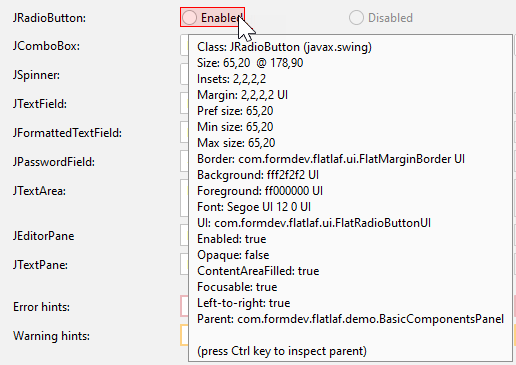
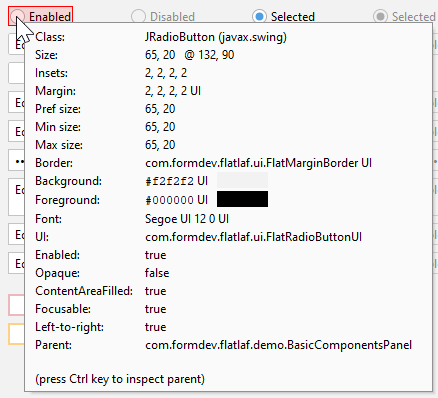
Extras: FlatInspector: tooltip is no longer limited to window bounds

Changed region(s): [[0.0297, 0.0, 1.0, 0.9945], [0.0, 0.0, 0.2968, 0.874]]

diff --git a/flatlaf-extras/src/main/java/com/formdev/flatlaf/extras/FlatInspector.java b/flatlaf-extras/src/main/java/com/formdev/flatlaf/extras/FlatInspector.java
@@ -38,6 +38,9 @@ import java.awt.event.KeyEvent;
 import java.awt.event.MouseEvent;
 import java.awt.event.MouseMotionAdapter;
 import java.awt.event.MouseMotionListener;
+import java.awt.event.WindowAdapter;
+import java.awt.event.WindowEvent;
+import java.awt.event.WindowListener;
 import java.beans.PropertyChangeListener;
 import java.beans.PropertyChangeSupport;
 import java.lang.reflect.Field;
@@ -48,6 +51,8 @@ import javax.swing.JRootPane;
 import javax.swing.JToolBar;
 import javax.swing.JToolTip;
 import javax.swing.KeyStroke;
+import javax.swing.Popup;
+import javax.swing.PopupFactory;
 import javax.swing.RootPaneContainer;
 import javax.swing.SwingUtilities;
 import javax.swing.border.Border;
@@ -55,6 +60,7 @@ import javax.swing.border.EmptyBorder;
 import javax.swing.border.LineBorder;
 import javax.swing.plaf.UIResource;
 import javax.swing.text.JTextComponent;
+import com.formdev.flatlaf.FlatClientProperties;
 import com.formdev.flatlaf.ui.FlatUIUtils;
 import com.formdev.flatlaf.util.UIScale;
 
@@ -82,7 +88,6 @@ import com.formdev.flatlaf.util.UIScale;
 public class FlatInspector
 {
 	private static final Integer HIGHLIGHT_LAYER = 401;
-	private static final Integer TOOLTIP_LAYER = 402;
 
 	private static final int KEY_MODIFIERS_MASK = InputEvent.CTRL_DOWN_MASK | InputEvent.SHIFT_DOWN_MASK | InputEvent.ALT_DOWN_MASK | InputEvent.META_DOWN_MASK;
 
@@ -90,6 +95,8 @@ public class FlatInspector
 	private final MouseMotionListener mouseMotionListener;
 	private final AWTEventListener keyListener;
 	private final PropertyChangeSupport propertyChangeSupport = new PropertyChangeSupport( this );
+	private final WindowListener windowListener;
+	private Window window;
 
 	private boolean enabled;
 	private Component lastComponent;
@@ -99,7 +106,7 @@ public class FlatInspector
 	private boolean wasCtrlOrShiftKeyPressed;
 
 	private JComponent highlightFigure;
-	private JToolTip tip;
+	private Popup popup;
 
 	/**
 	 * Installs a key listener into the application that allows enabling and disabling
@@ -189,6 +196,18 @@ public class FlatInspector
 				}
 			}
 		};
+
+		windowListener = new WindowAdapter() {
+			@Override
+			public void windowActivated( WindowEvent e ) {
+				update();
+			}
+
+			@Override
+			public void windowDeactivated( WindowEvent e ) {
+				hidePopup();
+			}
+		};
 	}
 
 	private void uninstall() {
@@ -221,12 +240,28 @@ public class FlatInspector
 
 		rootPane.getGlassPane().setVisible( enabled );
 
+		// add/remove key listener
 		Toolkit toolkit = Toolkit.getDefaultToolkit();
 		if( enabled )
 			toolkit.addAWTEventListener( keyListener, AWTEvent.KEY_EVENT_MASK );
 		else
 			toolkit.removeAWTEventListener( keyListener );
 
+		// add/remove window listener
+		if( enabled ) {
+			System.out.println( "add "+window );
+			window = SwingUtilities.windowForComponent( rootPane );
+			if( window != null )
+				window.addWindowListener( windowListener );
+		} else {
+			System.out.println( "rem" );
+			if( window != null ) {
+				window.removeWindowListener( windowListener );
+				window = null;
+			}
+		}
+
+		// show/hide popup
 		if( enabled ) {
 			Point pt = new Point( MouseInfo.getPointerInfo().getLocation() );
 			SwingUtilities.convertPointFromScreen( pt, rootPane );
@@ -242,12 +277,17 @@ public class FlatInspector
 				highlightFigure.getParent().remove( highlightFigure );
 			highlightFigure = null;
 
-			if( tip != null )
-				tip.getParent().remove( tip );
-			tip = null;
+			hidePopup();
 		}
 
 		propertyChangeSupport.firePropertyChange( "enabled", !enabled, enabled );
+	}
+
+	private void hidePopup() {
+		if( popup != null ) {
+			popup.hide();
+			popup = null;
+		}
 	}
 
 	public void update() {
@@ -303,7 +343,7 @@ public class FlatInspector
 					continue;
 
 				// ignore highlight figure and tooltip
-				if( c == highlightFigure || c == tip )
+				if( c == highlightFigure )
 					continue;
 
 				// ignore glass pane
@@ -357,26 +397,24 @@ public class FlatInspector
 	}
 
 	private void showToolTip( Component c, int x, int y, int parentLevel ) {
-		if( c == null ) {
-			if( tip != null )
-				tip.setVisible( false );
+		hidePopup();
+
+		if( c == null || (window != null && !window.isActive()) )
 			return;
-		}
 
-		if( tip == null ) {
-			tip = new JToolTip();
-			rootPane.getLayeredPane().add( tip, TOOLTIP_LAYER );
-		} else
-			tip.setVisible( true );
-
+		JToolTip tip = new JToolTip();
 		tip.setTipText( buildToolTipText( c, parentLevel ) );
+		tip.putClientProperty( FlatClientProperties.POPUP_FORCE_HEAVY_WEIGHT, true );
 
-		int tx = x + UIScale.scale( 8 );
-		int ty = y + UIScale.scale( 16 );
+		Point pt = new Point( x, y );
+		SwingUtilities.convertPointToScreen( pt, rootPane.getGlassPane() );
+		int tx = pt.x + UIScale.scale( 8 );
+		int ty = pt.y + UIScale.scale( 16 );
+
 		Dimension size = tip.getPreferredSize();
 
 		// position the tip in the visible area
-		Rectangle visibleRect = rootPane.getVisibleRect();
+		Rectangle visibleRect = rootPane.getGraphicsConfiguration().getBounds();
 		if( tx + size.width > visibleRect.x + visibleRect.width )
 			tx -= size.width + UIScale.scale( 16 );
 		if( ty + size.height > visibleRect.y + visibleRect.height )
@@ -386,8 +424,9 @@ public class FlatInspector
 		if( ty < visibleRect.y )
 			ty = visibleRect.y;
 
-		tip.setBounds( tx, ty, size.width, size.height );
-		tip.repaint();
+		PopupFactory popupFactory = PopupFactory.getSharedInstance();
+		popup = popupFactory.getPopup( c, tip, tx, ty );
+		popup.show();
 	}
 
 	private static String buildToolTipText( Component c, int parentLevel ) {
@@ -473,9 +512,9 @@ public class FlatInspector
 	}
 
 	private static void appendRow( StringBuilder buf, String key, String value ) {
-		buf.append( "<tr><td><b>" )
+		buf.append( "<tr><td>" )
 			.append( key )
-			.append( ":</b></td><td>" )
+			.append( ":</td><td>" )
 			.append( value )
 			.append( "</td></tr>" );
 	}

diff --git a/CHANGELOG.md b/CHANGELOG.md
@@ -3,6 +3,10 @@ FlatLaf Change Log
 
 ## 1.0-rc4-SNAPSHOT
 
+#### New features and improvements
+
+- Extras: UI Inspector: Tooltip is no longer limited to window bounds.
+
 #### Fixed bugs
 
 - TabbedPane: Custom `TabbedPane.selectedForeground` color did not work when
